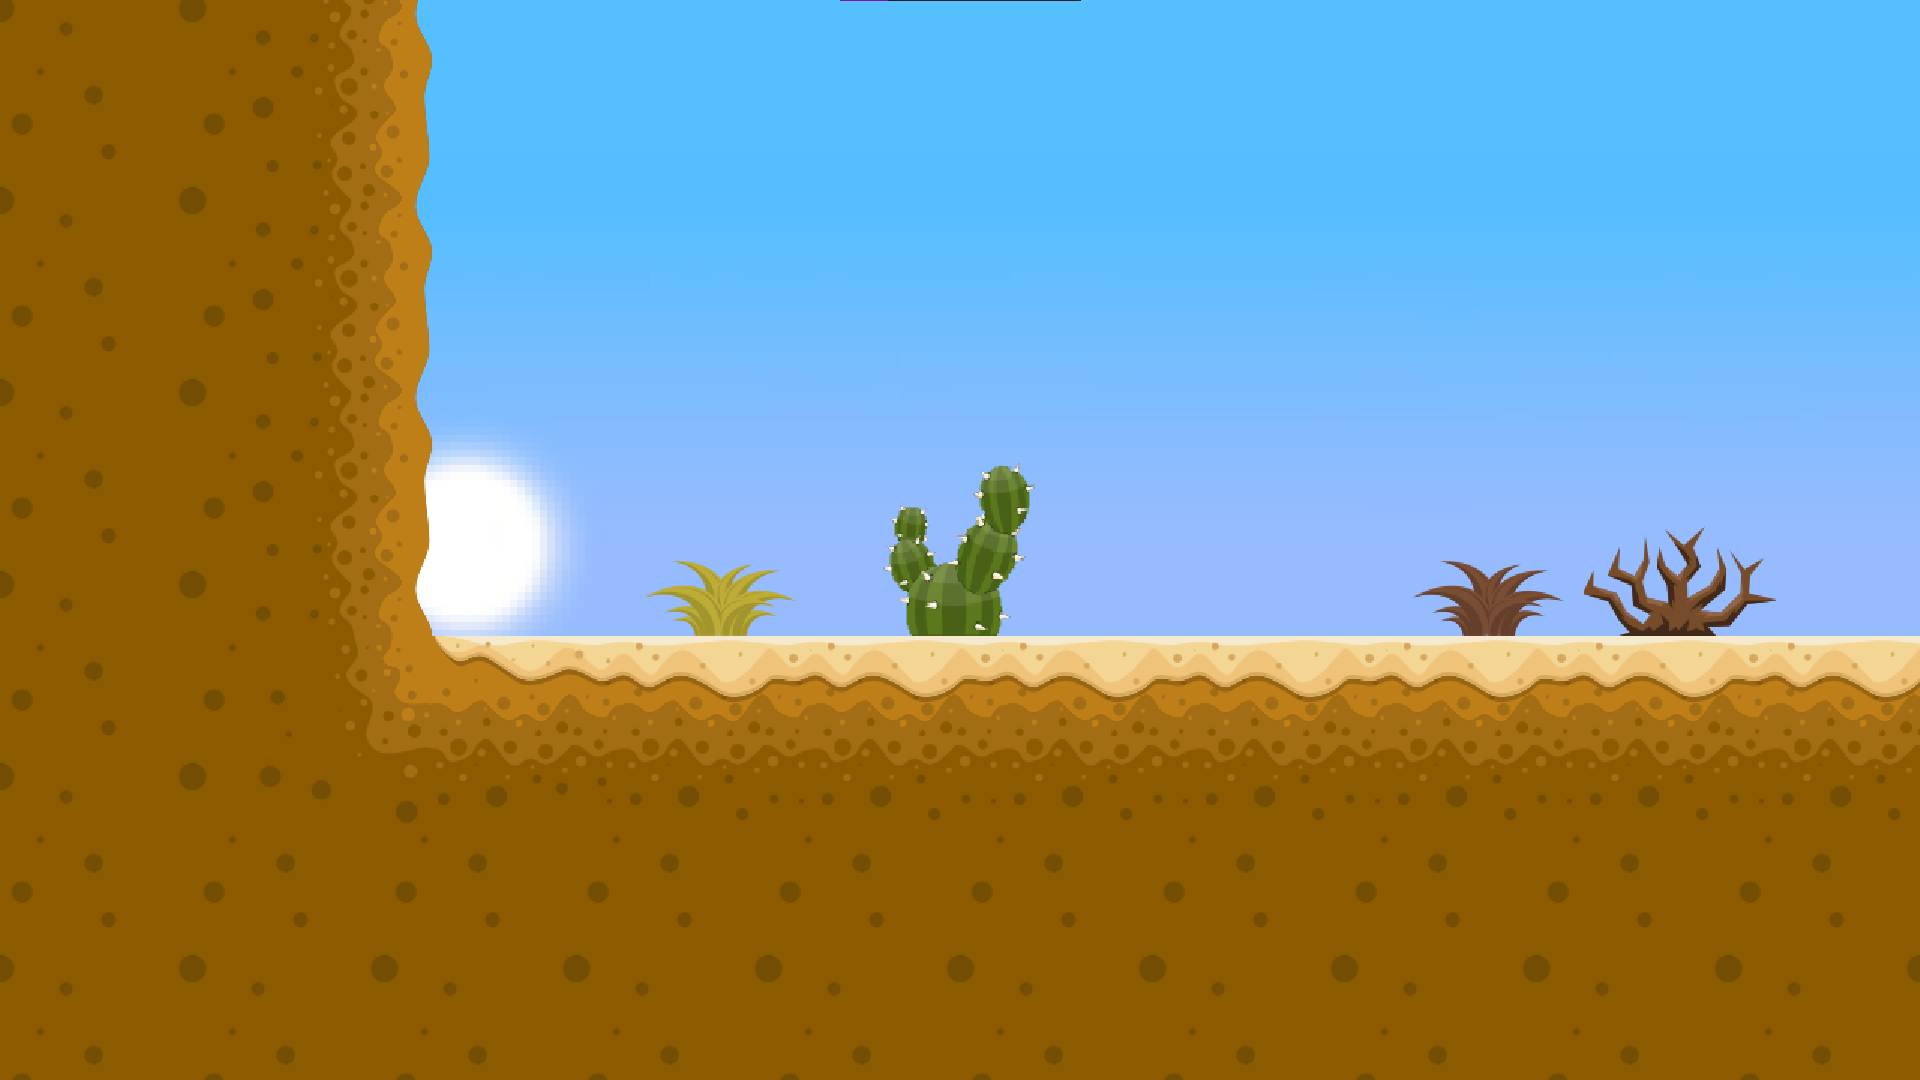
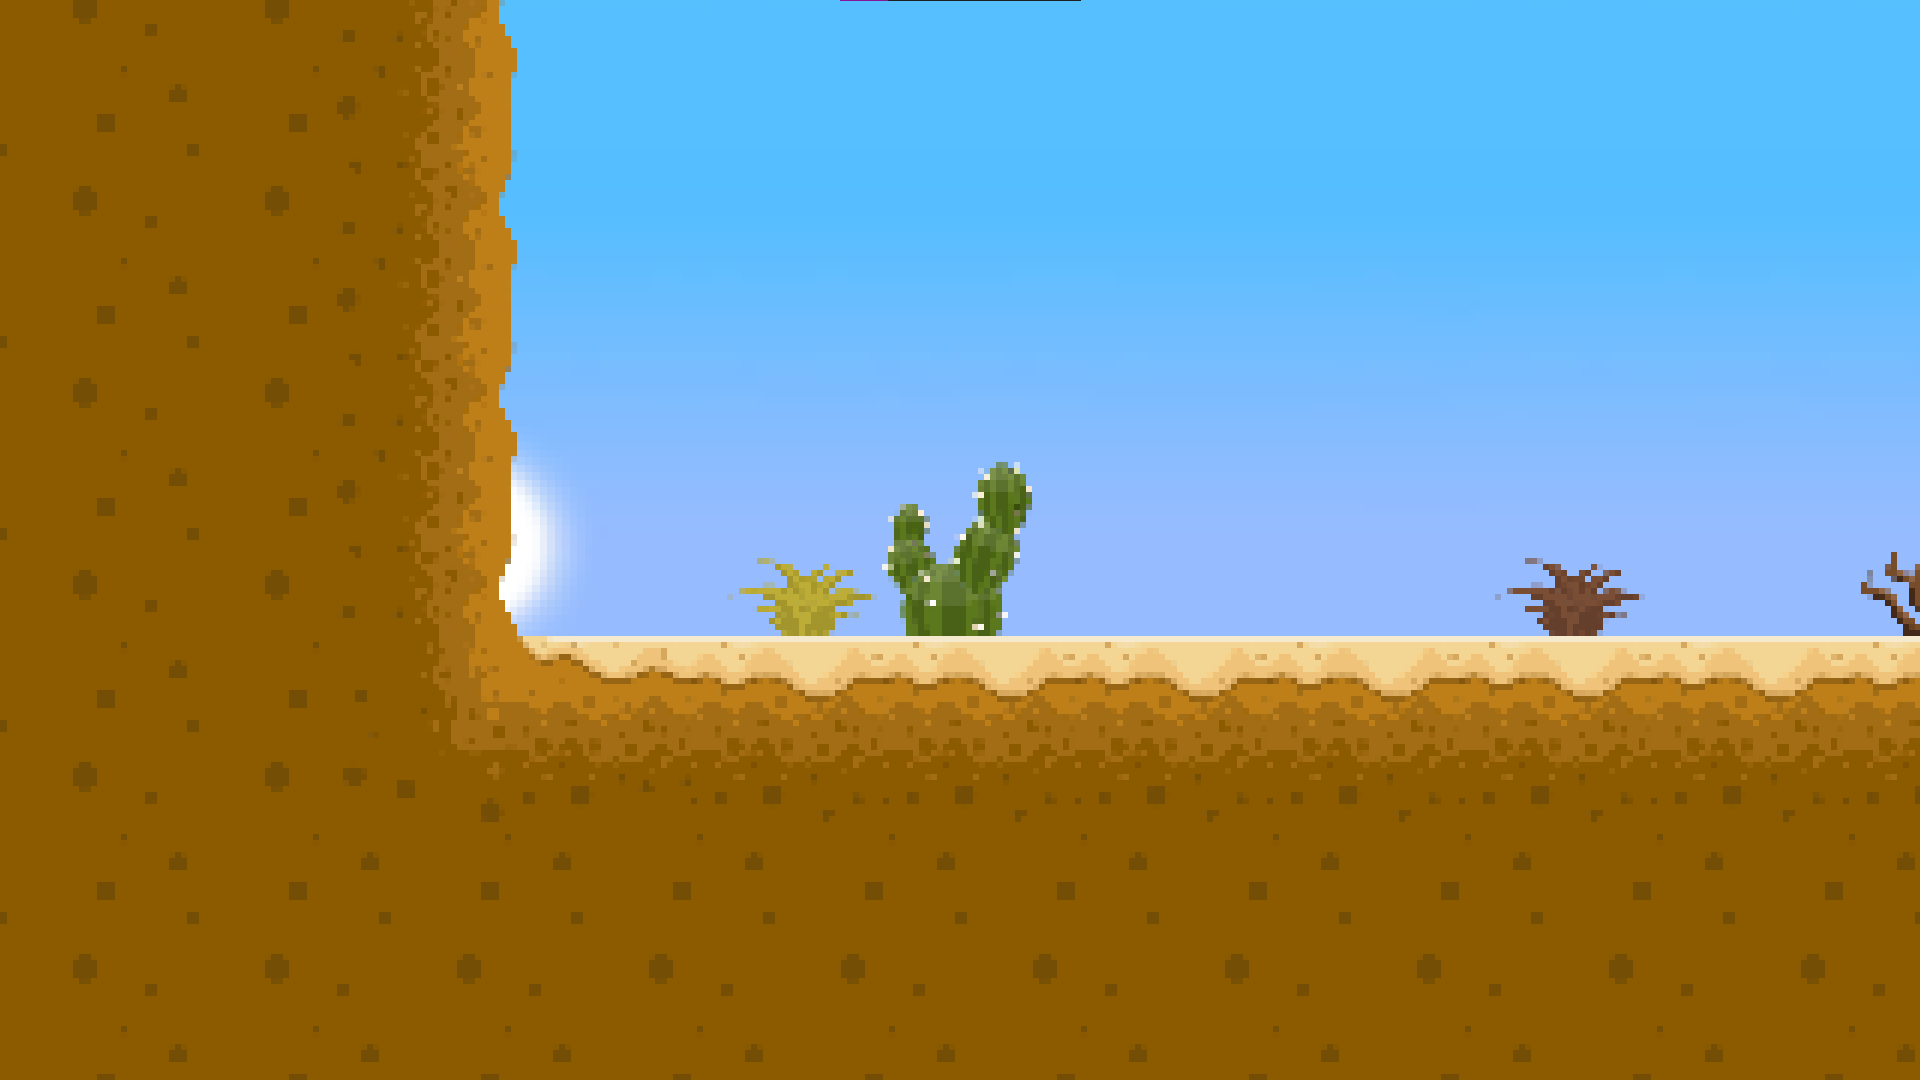
Make assets 32x32 and start work on clickflow

Changed region(s): [[0.1875, 0.0, 1.0, 0.6722]]

diff --git a/main.js b/main.js
@@ -66,6 +66,8 @@ LevelMap.prototype.position = function(x, y, size) {
 let gameScale = 192;
 let state = "loading";
 
+new Asset.Font("Press Start", "ttf/pressstart.ttf");
+
 let backgroundLayer = new Layer("background", { level: 0 });
 let mapLayer = new Layer("map", { level: 1 });
 let detailsLayer = new Layer("details", { level: 2 });
@@ -74,11 +76,11 @@ let hud = new Layer("hud", { level: 3 });
 let cactusAnimation = new Animate.Sequence({ 
     idle: {
         duration: 1000,
-        sequence: (new TileMap({ image: "png/character/cactus-idle-tile.png", scaleX: 128, scaleY: 128, size: 2})).map
+        sequence: (new TileMap({ image: "png/character/cactus-idle-tile.png", scaleX: 32, scaleY: 32, size: 2})).map
     },
     run: {
         duration: 1000,
-        sequence: (new TileMap({ image: "png/character/cactus-run-tile.png", scaleX: 128, scaleY: 128, size: 5})).map
+        sequence: (new TileMap({ image: "png/character/cactus-run-tile.png", scaleX: 32, scaleY: 32, size: 5})).map
     }
 }, "idle");
 let cactusBro = new GameObject({ asset: cactusAnimation });
@@ -86,12 +88,10 @@ let cactusBro = new GameObject({ asset: cactusAnimation });
 cactusBro.position(...Asset.center(Game.width / 2, Game.height / 2, gameScale, gameScale));
 
 let levelBackground = new GameObject({ asset: (new Asset({ image: "png/bg.png"})), x: 0, y: 0, w: Game.width, h: Game.height});
-backgroundLayer.assign(levelBackground);
 
-let aliveBush = new TileMap({ image: "png/decoration/alivebush.png", scaleX: 128, scaleY: 128, size: 2});
-let deadBush = new TileMap({ image: "png/decoration/deadbush.png", scaleX: 128, scaleY: 128, size: 2});
-let bones = new TileMap({ image: "png/decoration/bones.png", scaleX: 128, scaleY: 128, size: 2});
-let bigtree = new TileMap({ image: "png/decoration/bigtree.png", scaleX: 128, scaleY: 128, size: 6});
+let aliveBush = new TileMap({ image: "png/decoration/alivebush.png", scaleX: 32, scaleY: 32, size: 2});
+let bones = new TileMap({ image: "png/decoration/bones.png", scaleX: 32, scaleY: 32, size: 2});
+let bigtree = new TileMap({ image: "png/decoration/bigtree.png", scaleX: 32, scaleY: 32, size: 6});
 
 let levelAssets = {
     "O": (new Asset({ image: "png/world/fill.png" })),
@@ -108,8 +108,7 @@ let levelAssets = {
     "z": (new Asset({ image: "png/decoration/rock.png" })),
     "f": aliveBush.map[0],
     "g": aliveBush.map[1],
-    "i": deadBush.map[0],
-    "j": deadBush.map[1],
+    "d": (new Asset({ image: "png/decoration/deadbush.png" })),
     "w": bones.map[0],
     "x": bones.map[1],
     "m": bigtree.map[0],
@@ -125,9 +124,9 @@ let currentMap = new LevelMap(levelAssets, [
     "OOOOB-------------------------AOOOOO",
     "OOOOB-------------------------AOOOOO",
     "OOOOB-----------mno-----------AOOOOO",
-    "OOOOB-y---bij-z-pqr-fg--wx----AOOOOO",
-    "OOOOKITTTTTTTTTT----TTTTTTTTTJLOOOOO",
-    "OOOOOOOOOOOOOOOOTTTTOOOOOOOOOOOOOOOO",
+    "OOOOB-y---b-d-z-pqr-fg--wx----AOOOOO",
+    "OOOOKITTTTTTTTTTTTTTTTTTTTTTTJLOOOOO",
+    "OOOOOOOOOOOOOOOOOOOOOOOOOOOOOOOOOOOO",
     "OOOOOOOOOOOOOOOOOOOOOOOOOOOOOOOOOOOO",
     "OOOOOOOOOOOOOOOOOOOOOOOOOOOOOOOOOOOO",
     "OOOOOOOOOOOOOOOOOOOOOOOOOOOOOOOOOOOO",
@@ -153,16 +152,52 @@ collisionPoints = {
     yp: (gameScale / 2),
 }
 
+let loading = true;
+
+let startBDG = new GameObject({ asset: (new Asset({ image: "png/start.png" })), x: 0, y: 0, w: Game.width, h: Game.height });
+let startHeader = new GameObject({ asset: (new Text({ text: "CACTUS", font: "Press Start", size: 100, alignH: "center", alignV: "middle", fill: "#ffffff" })), x: Game.width / 2, y: Game.height / 4 });
+
+let loadingAnimateProperty;
+let loadingSpinner = new Asset.Primitive({ type: "arc", fill: "#ffffff", angleFrom: 0, angleTo: 180 });
+
+let loadingScreen = function() {
+    Layer.purgeAll();
+    backgroundLayer.assign((new GameObject({ asset: new Asset.Primitive({ type: "rectangle", fill: "#222222" }), x: 0, y: 0, w: Game.width, h: Game.height })));
+    hud.assign(new GameObject({ asset: loadingSpinner, x: Game.width / 2, y: Game.height / 2, w: 200, h: 200 }));
+
+    loadingAnimateProperty = new Animate.property(1000, {0: 0, 1: 360}, Infinity);
+};
+
+let loadStartScreen = function() {
+    Layer.purgeAll();
+    backgroundLayer.assign(startBDG);
+    hud.assign(startHeader);
+    state = "start";
+};
+
+let loadLevel = function() {
+    Layer.purgeAll();
+    mapLayer.assign(currentMap);
+    detailsLayer.assign(cactusBro);
+    state = "game";
+    cactusAnimation.switch("idle");
+};
+
 Game.on("loop", ({ stamp, delta }) => {
     switch (state) {
         case ("loading"): {
-            if (Asset.loading.length == 0) {
-                mapLayer.assign(currentMap);
-                detailsLayer.assign(cactusBro);
-                state = "game";
-                cactusAnimation.switch("idle");
+            let value = loadingAnimateProperty.value();
+            loadingSpinner.angleFrom = value;
+            loadingSpinner.angleTo = value + 180;
+
+            if (Asset.loading.length == 0 && loading) {
+                loading = false;
+                Game.wait(loadStartScreen, 1000);
             }
             break;
+        }
+        case ("start"): {
+            
         }
         case ("game"): {
             if (delta > 50) { return; }
@@ -263,5 +298,7 @@ Controller.on("press", "key_ ", () => {
         moveY = -maxSpeed;
     }
 })
+
+loadingScreen();
 
 Game.start();

diff --git a/game.js b/game.js
@@ -225,7 +225,7 @@ Asset.Primitive.prototype.draw = function(layer, x, y, w, h) {
             break;
         }
         case ("arc"): {
-            let r = (this.w + this.h) / 4;
+            let r = (w + h) / 4;
             layer.ctx.beginPath();
             layer.ctx.arc(x, y, r, ((this.angleFrom - 90) * Math.PI / 180), ((this.angleTo - 90) * Math.PI / 180));
             layer.ctx.lineTo(x, y);
@@ -276,6 +276,12 @@ Layer.drawAll = function() {
 
     for (let i = 0; i < layers.length; i++) {
         Layer.list[layers[i]].draw();
+    }
+};
+
+Layer.purgeAll = function() {
+    for (let i in Layer.list) {
+        Layer.list[i].purge();
     }
 };
 
